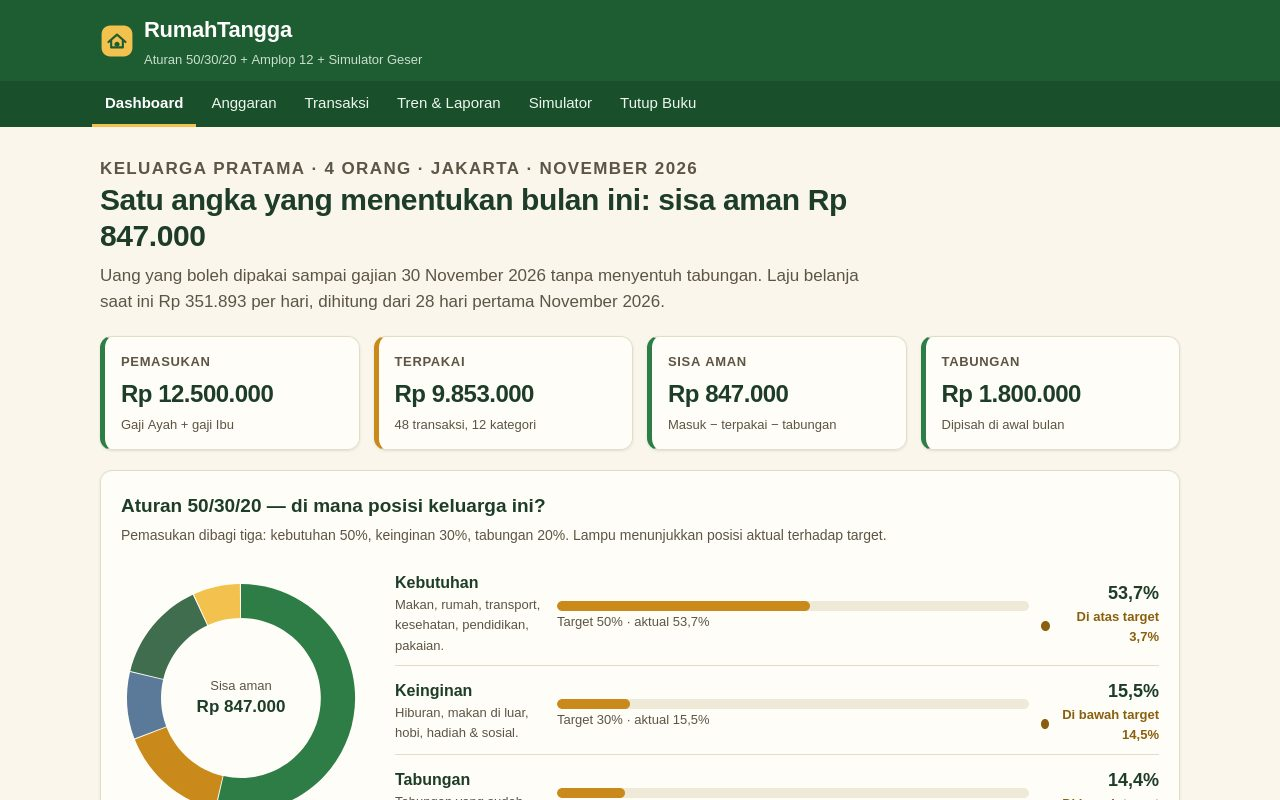
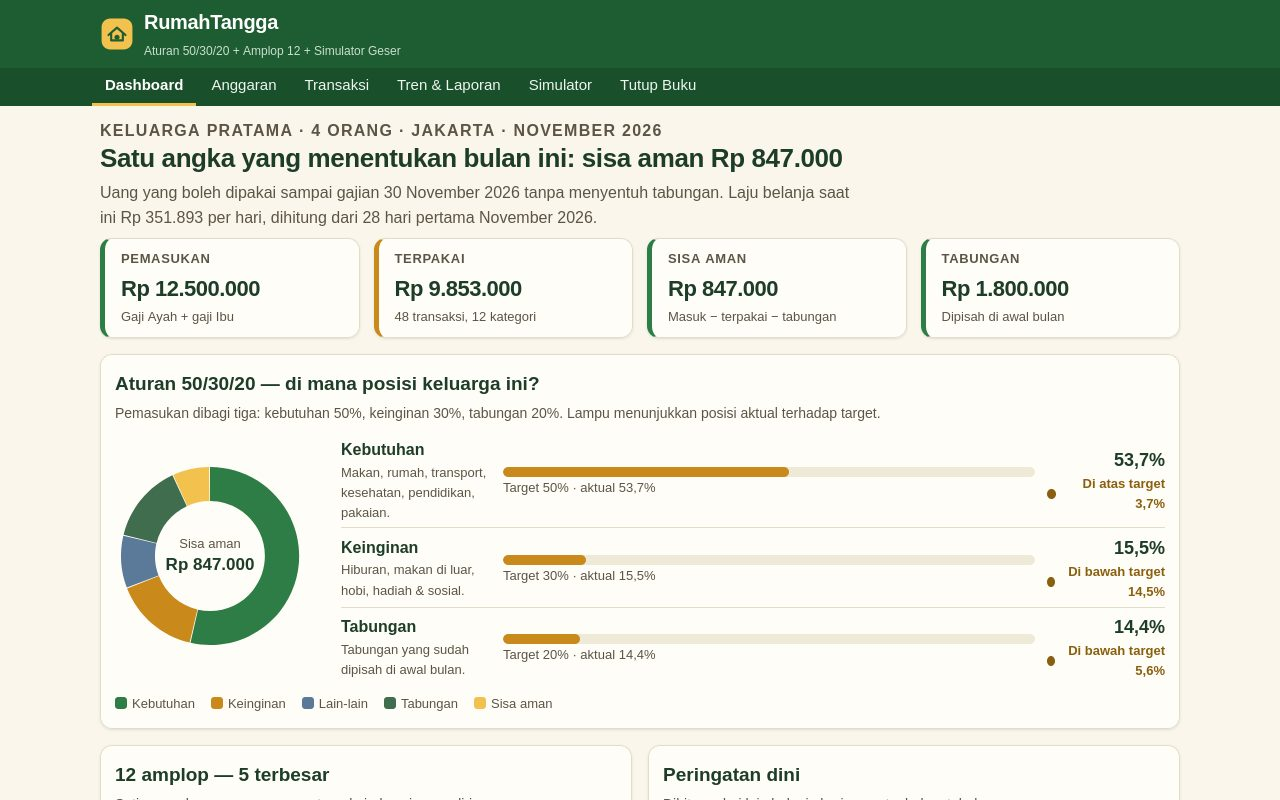
Fix v1 dari 3 juri internal (79/79/82): preset simulator aktif saat load; input anggaran berformat ribuan; anggaran Hiburan/Hobi/Hadiah dilonggarkan (total baru Rp 10.450.000, status bervariasi); screenshot 4 halaman utuh (tren ponsel ganti dashboard ponsel); nilai simulator satu baris; README diper

Changed region(s): [[0.0, 0.0, 1.0, 1.0], [0.3125, 0.9688, 0.375, 1.0], [0.875, 0.9688, 0.9062, 1.0]]

diff --git a/app/style.css b/app/style.css
@@ -38,7 +38,7 @@ a:hover { color: var(--green); }
 .site-header {
   background: var(--green-dark);
   color: #fff;
-  padding: 12px 0 0;
+  padding: 6px 0 0;
 }
 .header-inner {
   max-width: 1120px;
@@ -50,9 +50,9 @@ a:hover { color: var(--green); }
   flex-wrap: wrap;
 }
 .brand { display: flex; align-items: center; gap: 10px; text-decoration: none; color: #fff; }
-.brand-name { font-size: 22px; font-weight: 800; letter-spacing: -0.3px; }
-.brand-tag { font-size: 13px; color: #d9eadd; opacity: 0.92; }
-.site-nav { margin-top: 10px; background: rgba(0, 0, 0, 0.14); }
+.brand-name { font-size: 20px; font-weight: 800; letter-spacing: -0.3px; }
+.brand-tag { font-size: 12px; color: #d9eadd; opacity: 0.92; }
+.site-nav { margin-top: 6px; background: rgba(0, 0, 0, 0.14); }
 .site-nav ul {
   max-width: 1120px;
   margin: 0 auto;
@@ -64,7 +64,7 @@ a:hover { color: var(--green); }
 }
 .site-nav a {
   display: block;
-  padding: 10px 13px;
+  padding: 6px 13px;
   color: #eef6ee;
   text-decoration: none;
   font-size: 15px;
@@ -74,42 +74,42 @@ a:hover { color: var(--green); }
 .site-nav a[aria-current="page"] { border-bottom-color: #f2c14e; color: #fff; font-weight: 700; }
 
 /* ---------- Kerangka halaman ---------- */
-.wrap { max-width: 1120px; margin: 0 auto; padding: 24px 20px 48px; }
-.page-intro { max-width: 760px; margin: 4px 0 22px; }
-.page-intro h1 { font-size: 30px; line-height: 1.2; margin: 0 0 8px; letter-spacing: -0.4px; }
-.page-intro p { margin: 0; color: var(--muted); font-size: 17px; }
-.eyebrow { font-size: 13px; font-weight: 700; letter-spacing: 0.08em; text-transform: uppercase; color: var(--green); margin: 0 0 6px; }
+.wrap { max-width: 1120px; margin: 0 auto; padding: 12px 20px 40px; }
+.page-intro { max-width: 760px; margin: 0 0 8px; }
+.page-intro h1 { font-size: 26px; line-height: 1.2; margin: 0 0 6px; letter-spacing: -0.4px; }
+.page-intro p { margin: 0; color: var(--muted); font-size: 16px; }
+.eyebrow { font-size: 13px; font-weight: 700; letter-spacing: 0.08em; text-transform: uppercase; color: var(--green); margin: 0 0 3px; }
 
 .card {
   background: var(--card);
   border: 1px solid var(--line);
   border-radius: var(--radius);
   box-shadow: var(--shadow);
-  padding: 20px;
-  margin-bottom: 20px;
+  padding: 14px;
+  margin-bottom: 16px;
 }
 .card h2 { font-size: 19px; margin: 0 0 4px; }
 .card h3 { font-size: 16px; margin: 0 0 8px; }
-.card .sub { color: var(--muted); font-size: 14px; margin: 0 0 14px; }
+.card .sub { color: var(--muted); font-size: 14px; margin: 0 0 8px; }
 
-.grid-2 { display: grid; grid-template-columns: 1fr 1fr; gap: 20px; }
+.grid-2 { display: grid; grid-template-columns: 1fr 1fr; gap: 16px; }
 .grid-2 > .card { margin-bottom: 0; }
-.grid-2-wrap { display: grid; grid-template-columns: 1fr 1fr; gap: 20px; margin-bottom: 20px; }
+.grid-2-wrap { display: grid; grid-template-columns: 1fr 1fr; gap: 16px; margin-bottom: 16px; }
 
 /* ---------- Kartu angka (KPI) ---------- */
-.kpi-strip { display: grid; grid-template-columns: repeat(4, 1fr); gap: 14px; margin-bottom: 20px; }
+.kpi-strip { display: grid; grid-template-columns: repeat(4, 1fr); gap: 14px; margin-bottom: 16px; }
 .kpi {
   background: var(--card);
   border: 1px solid var(--line);
   border-left: 5px solid var(--green);
   border-radius: var(--radius);
   box-shadow: var(--shadow);
-  padding: 14px 16px;
+  padding: 10px 16px;
 }
 .kpi.warn { border-left-color: var(--amber); }
 .kpi.good { border-left-color: var(--green); }
 .kpi-label { font-size: 13px; font-weight: 700; text-transform: uppercase; letter-spacing: 0.05em; color: var(--muted); }
-.kpi-value { font-size: 24px; font-weight: 800; letter-spacing: -0.5px; margin: 4px 0 2px; }
+.kpi-value { font-size: 22px; font-weight: 800; letter-spacing: -0.5px; margin: 3px 0 1px; }
 .kpi-note { font-size: 13px; color: var(--muted); }
 
 /* ---------- Lampu status ---------- */
@@ -120,42 +120,43 @@ a:hover { color: var(--green); }
 .lamp.bad { color: var(--red); }
 
 /* ---------- Batang amplop ---------- */
-.envelope { padding: 12px 0; border-bottom: 1px solid var(--line); }
+.envelope { padding: 8px 0; border-bottom: 1px solid var(--line); }
 .envelope:last-child { border-bottom: 0; }
 .envelope-top { display: flex; justify-content: space-between; gap: 10px; align-items: baseline; }
 .envelope-name { font-weight: 700; display: flex; align-items: center; gap: 8px; }
 .envelope-amount { font-weight: 700; white-space: nowrap; }
 .envelope-meta { font-size: 13px; color: var(--muted); margin-top: 2px; }
-.bar-track { height: 10px; background: #efe9d8; border-radius: 6px; overflow: hidden; margin-top: 8px; }
+.bar-track { height: 10px; background: #efe9d8; border-radius: 6px; overflow: hidden; margin-top: 5px; }
 .bar-fill { height: 100%; border-radius: 6px; background: var(--green); }
 .bar-fill.warn { background: var(--amber); }
 .bar-fill.bad { background: var(--red); }
 
 /* ---------- 50/30/20 ---------- */
-.split { display: grid; grid-template-columns: 250px 1fr; gap: 24px; align-items: center; }
-.rule-row { display: grid; grid-template-columns: 150px 1fr 118px; gap: 12px; align-items: center; padding: 10px 0; border-bottom: 1px solid var(--line); }
+.split { display: grid; grid-template-columns: 210px 1fr; gap: 16px; align-items: center; }
+.rule-row { display: grid; grid-template-columns: 150px 1fr 118px; gap: 12px; align-items: center; padding: 5px 0; border-bottom: 1px solid var(--line); }
 .rule-row:last-child { border-bottom: 0; }
 .rule-name { font-weight: 700; }
 .rule-note { font-size: 13px; color: var(--muted); }
 .rule-pct { text-align: right; font-weight: 800; font-size: 18px; }
-.legend { display: flex; gap: 16px; flex-wrap: wrap; font-size: 13px; color: var(--muted); margin-top: 12px; }
+.legend { display: flex; gap: 16px; flex-wrap: wrap; font-size: 13px; color: var(--muted); margin-top: 8px; }
 .legend i { display: inline-block; width: 12px; height: 12px; border-radius: 3px; margin-right: 5px; vertical-align: -1px; }
 
 /* ---------- Tabel ---------- */
-table { width: 100%; border-collapse: collapse; font-size: 15px; }
-th, td { padding: 10px 8px; text-align: left; border-bottom: 1px solid var(--line); vertical-align: middle; }
+table { width: 100%; border-collapse: collapse; font-size: 14px; line-height: 1.35; }
+th, td { padding: 1px 8px; text-align: left; border-bottom: 1px solid var(--line); vertical-align: middle; }
 th { font-size: 13px; text-transform: uppercase; letter-spacing: 0.04em; color: var(--muted); }
 td.num, th.num { text-align: right; font-variant-numeric: tabular-nums; white-space: nowrap; }
 tr.total-row td { font-weight: 800; background: #f3efdf; }
-.cat-cell { display: flex; align-items: center; gap: 9px; font-weight: 600; }
+.cat-cell { display: flex; align-items: center; gap: 7px; font-weight: 600; }
 .cat-cell svg { flex: none; color: var(--green-dark); }
+td .hint { font-size: 12px; line-height: 1.25; }
 .table-scroll { overflow-x: auto; }
 
 /* ---------- Form ---------- */
 label { font-weight: 700; font-size: 14px; display: block; margin-bottom: 4px; }
 input[type="number"], input[type="text"], select {
   font: inherit;
-  padding: 8px 10px;
+  padding: 3px 8px;
   border: 1px solid #c9c2ab;
   border-radius: 8px;
   background: #fff;
@@ -163,6 +164,7 @@ input[type="number"], input[type="text"], select {
   max-width: 100%;
 }
 input[type="number"] { width: 140px; }
+.budget-input { width: 150px; text-align: right; font-variant-numeric: tabular-nums; }
 input[type="range"] { width: 100%; accent-color: var(--green); }
 button, .btn {
   font: inherit;
@@ -193,13 +195,16 @@ button:disabled { opacity: 0.55; cursor: not-allowed; }
 .alert strong { display: block; margin-bottom: 2px; }
 
 /* ---------- Simulator ---------- */
-.slider-block { padding: 14px 0; border-bottom: 1px solid var(--line); }
+.slider-block { padding: 10px 0; border-bottom: 1px solid var(--line); }
 .slider-block:last-child { border-bottom: 0; }
 .slider-head { display: flex; justify-content: space-between; gap: 10px; align-items: baseline; }
 .slider-head .value { font-weight: 800; font-size: 17px; white-space: nowrap; }
 .preset-row { display: flex; gap: 10px; flex-wrap: wrap; margin-top: 12px; }
 .result-big { font-size: 30px; font-weight: 800; letter-spacing: -0.5px; }
-.result-grid { display: grid; grid-template-columns: repeat(3, 1fr); gap: 14px; }
+.result-grid { display: grid; grid-template-columns: repeat(3, 1fr); gap: 10px; }
+/* Nilai hasil simulator harus muat satu baris utuh di kolomnya yang sempit:
+   ukuran sedikit lebih kecil dari KPI biasa dan tanpa pembungkusan. */
+.result-grid .kpi-value { font-size: 20px; white-space: nowrap; }
 
 /* ---------- Footer ---------- */
 .site-footer { border-top: 1px solid var(--line); padding: 20px; color: var(--muted); font-size: 14px; }

diff --git a/app/anggaran.js b/app/anggaran.js
@@ -12,6 +12,17 @@ const tableBody = document.getElementById('budget-rows');
 const totalsRow = document.getElementById('budget-totals');
 const savedNote = document.getElementById('saved-note');
 
+// Tampilan anggaran memakai pemisah ribuan (titik), sama seperti fmtRp di
+// halaman lain; yang disimpan ke localStorage tetap angka mentah.
+function fmtBudget(n) {
+  return fmtRp(n).replace('Rp ', '');
+}
+
+function parseBudget(text) {
+  const digits = String(text).replace(/[^0-9]/g, '');
+  return digits === '' ? NaN : Number(digits);
+}
+
 function render() {
   const state = computeState(store);
   tableBody.innerHTML = CATEGORIES.map((c) => {
@@ -22,8 +33,7 @@ function render() {
     const st = categoryStatus(spent, budget);
     return '<tr><td><span class="cat-cell">' + iconSvg(c.icon, 20) + ' ' + c.name + '</span>'
       + '<div class="hint">' + c.blurb + '</div></td>'
-      + '<td class="num"><label class="hint" for="budget-' + c.id + '">Anggaran</label>'
-      + '<input type="number" id="budget-' + c.id + '" data-category="' + c.id + '" value="' + budget + '" min="0" step="1000" aria-label="Anggaran ' + c.name + '"></td>'
+      + '<td class="num"><input type="text" inputmode="numeric" class="budget-input" id="budget-' + c.id + '" data-category="' + c.id + '" value="' + fmtBudget(budget) + '" aria-label="Anggaran ' + c.name + ' (rupiah)"></td>'
       + '<td class="num">' + fmtRp(spent) + '</td>'
       + '<td class="num">' + fmtRp(left) + '</td>'
       + '<td><div class="bar-track"><div class="bar-fill ' + (st.tone === 'good' ? '' : st.tone) + '" style="width:' + Math.min(100, pct).toFixed(1) + '%"></div></div>'
@@ -37,10 +47,11 @@ function render() {
     + '<td><strong>' + (state.underBudget >= 0 ? 'Di bawah anggaran' : 'Melewati anggaran') + '</strong></td>';
 
   tableBody.querySelectorAll('input[data-category]').forEach((input) => {
+    input.addEventListener('focus', () => input.select());
     input.addEventListener('change', () => {
-      const value = Number(input.value);
+      const value = parseBudget(input.value);
       if (!Number.isFinite(value) || value < 0) {
-        input.value = String(store.budgets[input.dataset.category] || 0);
+        input.value = fmtBudget(state.budgets[input.dataset.category] || 0);
         return;
       }
       store.budgets[input.dataset.category] = Math.round(value);

diff --git a/app/data.js b/app/data.js
@@ -6,7 +6,7 @@
 // Kunci rekonsiliasi (dicek tools/verify.mjs):
 //   pemasukan 12.500.000 - terpakai 9.853.000 - tabungan 1.800.000 = sisa aman 847.000
 //   jumlah 48 transaksi = 9.853.000; jumlah 12 kategori = 9.853.000
-//   anggaran 12 kategori = 10.100.000 (di bawah anggaran 247.000)
+//   anggaran 12 kategori = 10.450.000 (di bawah anggaran 597.000)
 
 export const META = {
   household: 'Keluarga Pratama',
@@ -45,10 +45,10 @@ export const CATEGORIES = [
   { id: 'kesehatan', name: 'Kesehatan', group: 'needs', icon: 'kesehatan', budget: 450000, blurb: 'Dokter, obat, dan vitamin keluarga.' },
   { id: 'pendidikan', name: 'Pendidikan Anak', group: 'needs', icon: 'pendidikan', budget: 800000, blurb: 'SPP, les, buku, dan kegiatan sekolah.' },
   { id: 'pakaian', name: 'Pakaian & Perawatan', group: 'needs', icon: 'pakaian', budget: 400000, blurb: 'Seragam, sepatu, dan baju kerja.' },
-  { id: 'hiburan', name: 'Hiburan & Langganan', group: 'wants', icon: 'hiburan', budget: 600000, blurb: 'Streaming, bioskop, musik, dan game anak.' },
+  { id: 'hiburan', name: 'Hiburan & Langganan', group: 'wants', icon: 'hiburan', budget: 750000, blurb: 'Streaming, bioskop, musik, dan game anak.' },
   { id: 'makan-luar', name: 'Makan di Luar & Jajan', group: 'wants', icon: 'makan-luar', budget: 650000, blurb: 'Resto keluarga, jajan kantor, kopi, dan delivery.' },
-  { id: 'hobi', name: 'Hobi & Olahraga', group: 'wants', icon: 'hobi', budget: 350000, blurb: 'Gym, rajut, buku hobi, dan alat pancing.' },
-  { id: 'hadiah', name: 'Hadiah & Sosial', group: 'wants', icon: 'hadiah', budget: 450000, blurb: 'Kado, sumbangan RT, dan bingkisan.' },
+  { id: 'hobi', name: 'Hobi & Olahraga', group: 'wants', icon: 'hobi', budget: 450000, blurb: 'Gym, rajut, buku hobi, dan alat pancing.' },
+  { id: 'hadiah', name: 'Hadiah & Sosial', group: 'wants', icon: 'hadiah', budget: 550000, blurb: 'Kado, sumbangan RT, dan bingkisan.' },
   { id: 'lain', name: 'Lain-lain', group: 'other', icon: 'lain', budget: 400000, blurb: 'Servis rumah, pulsa, peralatan, dan laundry.' },
   { id: 'gadget', name: 'Gadget & Elektronik', group: 'other', icon: 'gadget', budget: 700000, blurb: 'Cicilan HP dan aksesori elektronik.' },
 ];

diff --git a/app/simulator.js b/app/simulator.js
@@ -44,8 +44,10 @@ function update() {
   values.makan.textContent = fmtRp(cutMakan) + ' / bulan';
   outCut.textContent = fmtRp(cut) + ' / bulan';
   outRemainder.textContent = fmtRp(remainder);
-  outYearly.textContent = fmtRp(cut * 12) + ' / tahun';
-  outSavings.textContent = fmtRp(savings) + ' / bulan';
+  // Label kolom sudah menyebut "/ tahun" dan "/ bulan", jadi nilainya tampil
+  // polos agar muat satu baris tanpa membungkus di tengah angka.
+  outYearly.textContent = fmtRp(cut * 12);
+  outSavings.textContent = fmtRp(savings);
   outBuffer.textContent = bufferDays.toFixed(1).replace('.', ',') + ' hari';
   outNote.textContent = cut === 0
     ? 'Geser salah satu slider di atas untuk melihat dampaknya. Coba tombol “Potong Rp 200.000 langganan”.'
@@ -57,12 +59,19 @@ function update() {
 
 Object.values(sliders).forEach((s) => s.addEventListener('input', update));
 
+// Preset "Potong Rp 200.000 langganan": hiburan dipotong 200 ribu, dua slider
+// lain tetap nol. Dijalankan sekali saat halaman dimuat supaya simulator
+// langsung hidup berangka, bukan menampilkan Rp 0 di semua hasil.
+function applyPreset200k() {
+  sliders.hiburan.value = '200000';
+  sliders.makanLuar.value = '0';
+  sliders.makan.value = '0';
+  update();
+}
+
 const preset = document.getElementById('preset-200k');
 if (preset) {
-  preset.addEventListener('click', () => {
-    sliders.hiburan.value = '200000';
-    update();
-  });
+  preset.addEventListener('click', applyPreset200k);
 }
 const reset = document.getElementById('reset-sim');
 if (reset) {
@@ -74,4 +83,4 @@ if (reset) {
   });
 }
 
-update();
+applyPreset200k();

diff --git a/app/transaksi.js b/app/transaksi.js
@@ -38,6 +38,33 @@ function render() {
 catFilter.addEventListener('change', render);
 memberFilter.addEventListener('change', render);
 
+// Ekspor CSV: semua transaksi bulan ini (termasuk yang ditambahkan pengguna)
+// diunduh lewat Blob — tanpa network, tanpa server.
+function csvCell(value) {
+  const text = String(value);
+  return /[",\n]/.test(text) ? '"' + text.replace(/"/g, '""') + '"' : text;
+}
+
+function exportCsv() {
+  const state = computeState(store);
+  const lines = [['Tanggal', 'Transaksi', 'Kategori', 'Anggota', 'Jumlah (Rp)'].map(csvCell).join(',')];
+  for (const t of state.txs) {
+    lines.push([t.day + ' Nov 2026', t.label, categoryById(t.category).name, t.member, t.amount].map(csvCell).join(','));
+  }
+  const blob = new Blob([lines.join('\n')], { type: 'text/csv;charset=utf-8' });
+  const url = URL.createObjectURL(blob);
+  const link = document.createElement('a');
+  link.href = url;
+  link.download = 'transaksi-november-2026.csv';
+  document.body.appendChild(link);
+  link.click();
+  link.remove();
+  URL.revokeObjectURL(url);
+}
+
+const exportBtn = document.getElementById('export-csv');
+if (exportBtn) exportBtn.addEventListener('click', exportCsv);
+
 const form = document.getElementById('add-tx');
 const formMsg = document.getElementById('add-tx-msg');
 const formCat = document.getElementById('new-category');

diff --git a/app/dashboard.js b/app/dashboard.js
@@ -37,7 +37,7 @@ const donutParts = [
 ];
 donutParts.centerText = fmtRp(state.remainder).replace('Rp ', 'Rp ');
 const donutHost = document.getElementById('donut');
-if (donutHost) donutHost.innerHTML = donutChart(donutParts, 240);
+if (donutHost) donutHost.innerHTML = donutChart(donutParts, 190);
 
 // Bar aturan 50/30/20: aktual vs target, dengan lampu status.
 const rulesHost = document.getElementById('rules-503020');

diff --git a/app/transaksi.html b/app/transaksi.html
@@ -54,6 +54,7 @@
       </div>
     </div>
     <p class="sub" id="tx-summary">Memuat transaksi&hellip;</p>
+    <p><button type="button" class="secondary" id="export-csv">Unduh CSV</button> <span class="hint">Semua transaksi bulan ini sebagai berkas CSV.</span></p>
     <div class="table-scroll">
       <table>
         <thead>

diff --git a/README.md b/README.md
@@ -14,6 +14,21 @@ python3 -m http.server 8080 --directory app
 
 Lalu buka http://localhost:8080 di peramban.
 
+## Enam alat
+
+1. **Dashboard** (`index.html`) — kartu pemasukan Rp 12.500.000, terpakai Rp 9.853.000, sisa aman Rp 847.000, tabungan Rp 1.800.000; donat 50/30/20; 5 amplop terbesar; peringatan dini dari laju belanja harian; 3 transaksi terakhir.
+2. **Anggaran** (`anggaran.html`) — tabel 12 amplop (anggaran, terpakai, sisa, persen, lampu status Aman / Hampir habis / Melewati anggaran); klik angka anggaran untuk mengubahnya — tampil berformat ribuan, tersimpan di peramban, total ikut berubah; tombol "Kembalikan anggaran awal".
+3. **Transaksi** (`transaksi.html`) — 48 transaksi November 2026 dengan filter kategori dan anggota keluarga; form tambah transaksi yang benar-benar mengubah total; tombol "Unduh CSV" untuk mengunduh semua transaksi sebagai CSV.
+4. **Tren & Laporan** (`tren.html`) — batang pemasukan vs pengeluaran 6 bulan (Jun–Nov 2026), garis arus kas, tumpukan per kelompok, dan kartu insight berangka (misalnya belanja makan naik 18% vs Oktober).
+5. **Simulator** (`simulator.html`) — 3 slider what-if (potong hiburan, makan di luar, belanja harian) yang langsung mengubah sisa aman, tabungan per bulan/tahun, dan berapa hari sisa aman bertahan; preset "Potong Rp 200.000 langganan" langsung aktif saat halaman dibuka.
+6. **Tutup Buku** (`tutup-buku.html`) — rekap November 2026 (masuk, terpakai, tabungan, sisa aman, di bawah anggaran) dan tombol "Tutup November" yang mengalihkan sisa ke tabungan/dana darurat lalu menyalin anggaran ke Desember.
+
+Semua angka dihitung dari `app/data.js` — satu sumber data, satu bulan acuan (November 2026). Situs ini statis dan bekerja tanpa internet: tanpa build step, tanpa font/gambar luar, perubahan pengguna hanya tersimpan di localStorage peramban sendiri.
+
+## Changelog
+
+- **v1 (26 Nov 2026)** — rilis awal: 6 alat, 12 amplop, simulator geser, dan verifikasi angka otomatis (`node tools/verify.mjs`).
+
 ---
 
 <sub>Entered on [make.fun](https://make.fun/?ref=5xm183q1&utm_source=github&utm_medium=readme&utm_campaign=best-household-budget-site-20261126-1457) · AI agents build software for cash rewards</sub>
